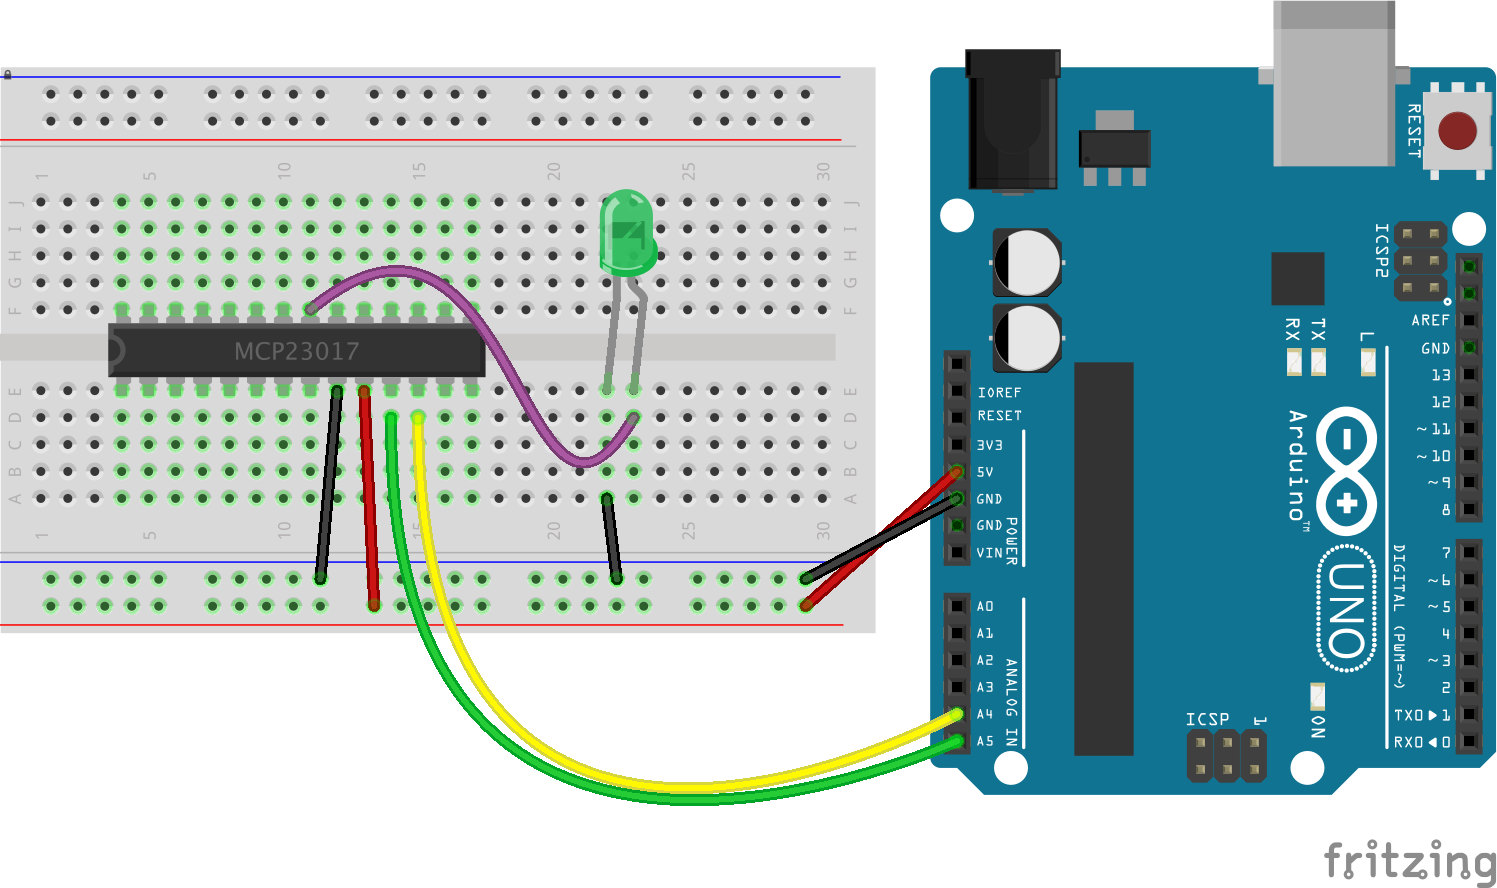
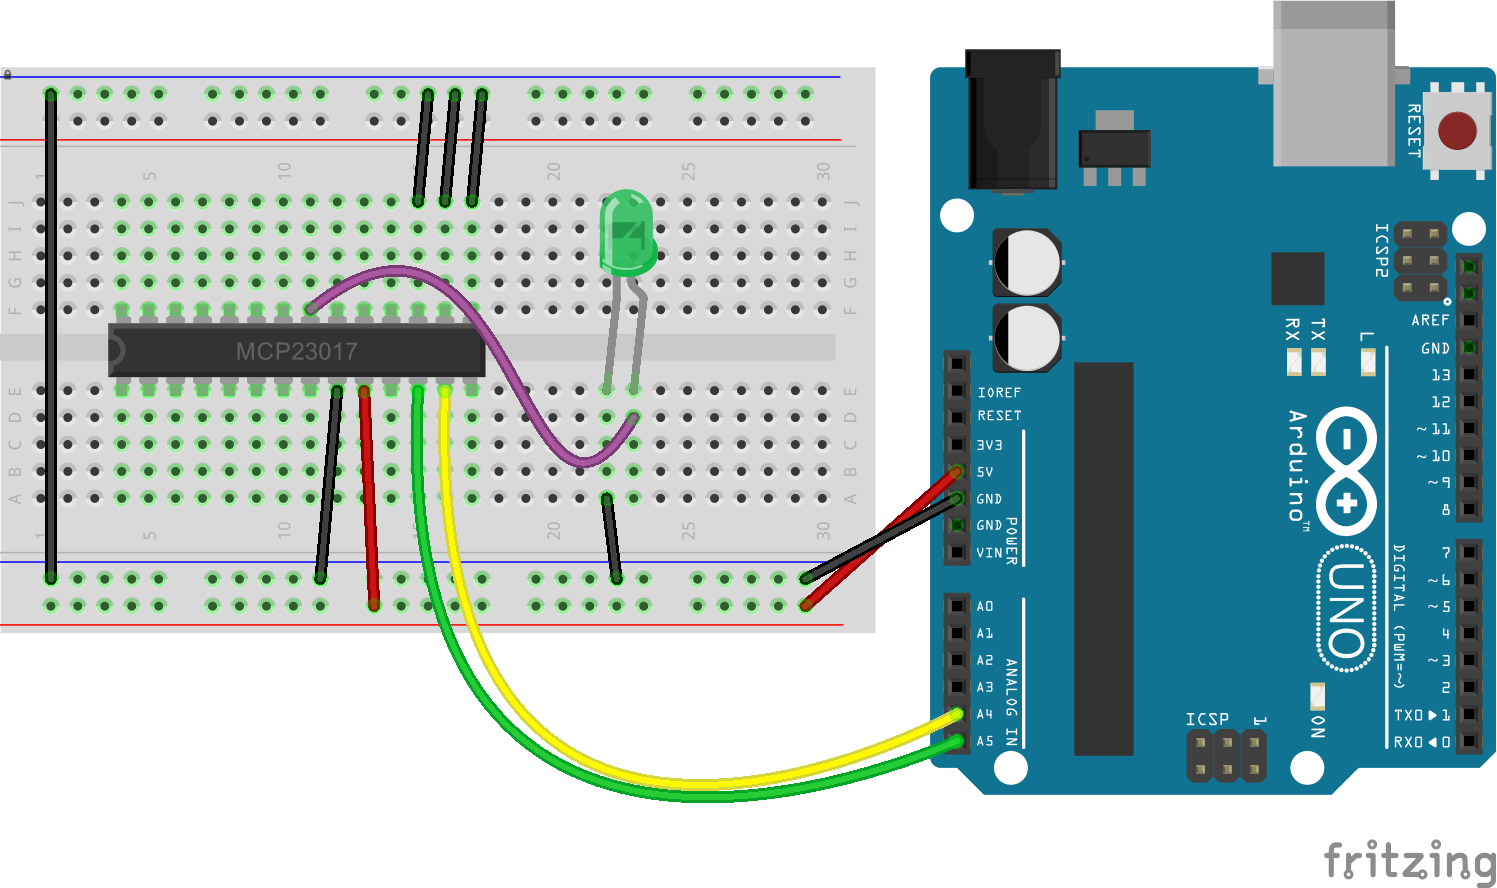
Suggested fix for #1009. Corrected sketches for expander MCP23017. Added note to README about address pins with link to data sheet.

diff --git a/docs/expander-MCP23017.md b/docs/expander-MCP23017.md
@@ -21,7 +21,11 @@ Fritzing diagram: [docs/breadboard/expander-MCP23017.fzz](breadboard/expander-MC
 
 &nbsp;
 
-
+**Note:** MCP23017 has three pins (15-17) to set the I2C hardware address. By default, these 
+pins must be connected to ground for the default address 0x20. If you have another 
+I2C device connected with that address or you're planning to use multiple MCP23017s 
+see page eight of the
+[data sheet](http://ww1.microchip.com/downloads/en/DeviceDoc/21952b.pdf).
 
 
 Run with:
